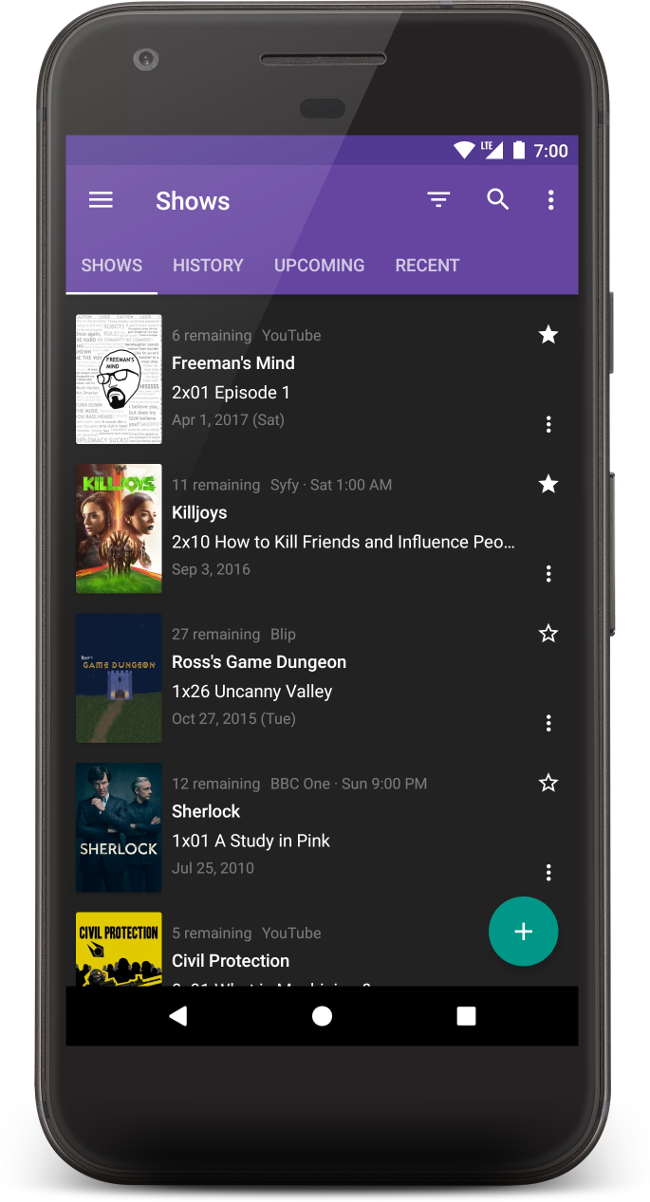
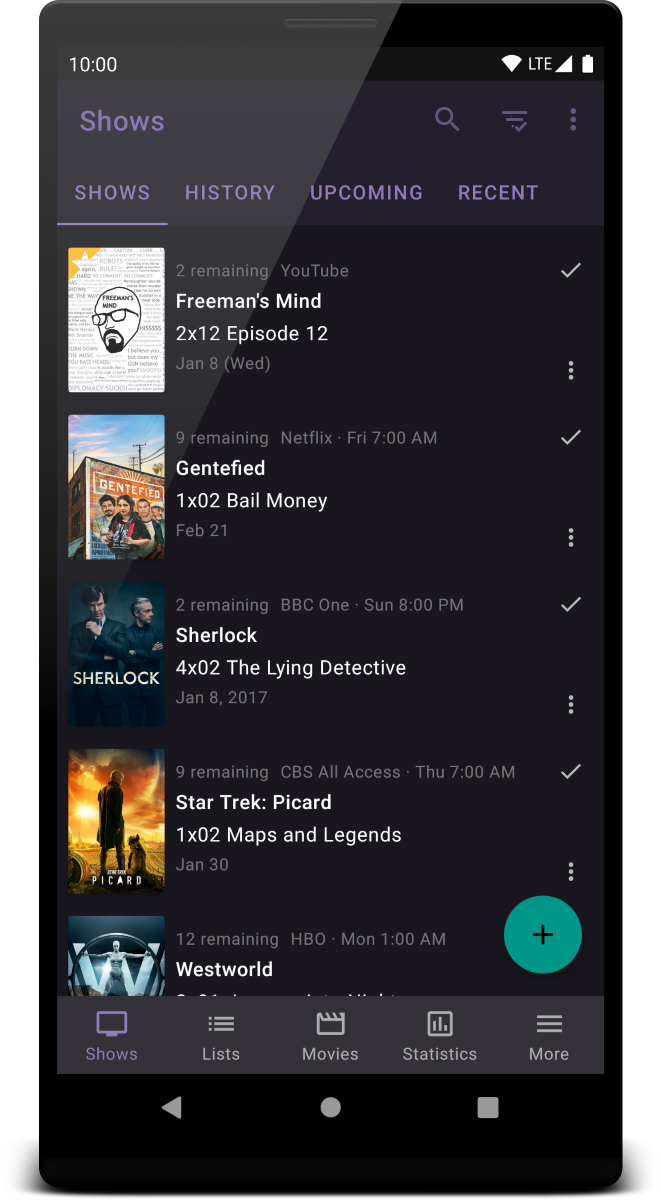
Update front page images.

diff --git a/index.html b/index.html
@@ -42,7 +42,7 @@ layout: default
   <div class="col-md-12">
     <a class="btn btn-outline-dark btn-sm mb-1" href="{{ site.data.links.community }}">SeriesGuide Community</a>
     <a class="btn btn-outline-dark btn-sm mb-1" href="https://github.com/UweTrottmann/SeriesGuide/blob/master/CHANGELOG.md">Release notes</a>
-    <p><br/><small>Show images from <a href="{{ site.data.links.thetvdb }}">TheTVDB.com</a> licensed under <a href="http://creativecommons.org/licenses/by-nc/4.0/">Creative Commons Attribution-NonCommercial 4.0 International License</a>. Example shows by <a href="http://www.accursedfarms.com/">Ross Scott</a>, <a href="https://www.bbc.co.uk/bbcone">BBC One</a> and <a href="http://www.syfy.com/">SyFy</a>.</small></p>
+    <p><br/><small>Show images from <a href="{{ site.data.links.thetvdb }}">TheTVDB.com</a>. Example shows by <a href="http://www.accursedfarms.com">Ross Scott</a>, <a href="http://www.netflix.com">Netflix</a>, <a href="https://www.bbc.co.uk/bbcone">BBC One</a>, <a href="https://www.cbs.com/all-access/">CBS All Access</a> and <a href="https://www.hbo.com">HBO</a>.</small></p>
   </div>
 </div>
 
@@ -55,7 +55,7 @@ layout: default
   </div>
   
   <div class="col-sm-6 col-md-3 mt-3 mt-sm-0">
-    <img src="images/add-shows.png" class="img-fluid d-block mx-auto img-hero" alt="add show screenshot" />
+    <img src="images/discover-shows.png" class="img-fluid d-block mx-auto img-hero" alt="Discover shows screenshot" />
   </div>
   
   <div class="col-sm-6 col-md-3 mt-5 mt-md-0">
@@ -64,7 +64,7 @@ layout: default
   </div>
   
   <div class="col-sm-6 col-md-3 mt-3 mt-sm-5 mt-md-0">
-    <img src="images/checkin.png" class="img-fluid d-block mx-auto img-hero" alt="check-in dialog screenshot" />
+    <img src="images/trakt.png" class="img-fluid d-block mx-auto img-hero" alt="Trakt screenshot" />
   </div>
 </div>
 
@@ -76,7 +76,7 @@ layout: default
   </div>
 
   <div class="col-sm-6 col-md-3 mt-3 mt-sm-0">
-    <img src="images/progress.png" class="img-fluid d-block mx-auto img-hero" alt="season list screenshot" />
+    <img src="images/seasons.png" class="img-fluid d-block mx-auto img-hero" alt="Season list screenshot" />
   </div>
 
   <div class="col-sm-6 col-md-3 mt-5 mt-md-0">
@@ -96,6 +96,6 @@ layout: default
   </div>
 
   <div class="col-sm-6 col-md-3 mt-3 mt-sm-5 mt-md-0">
-    <img src="images/light-theme.png" class="img-fluid d-block mx-auto img-hero" alt="light theme screenshot" />
+    <img src="images/shows-light.png" class="img-fluid d-block mx-auto img-hero" alt="light theme screenshot" />
   </div>
 </div>
